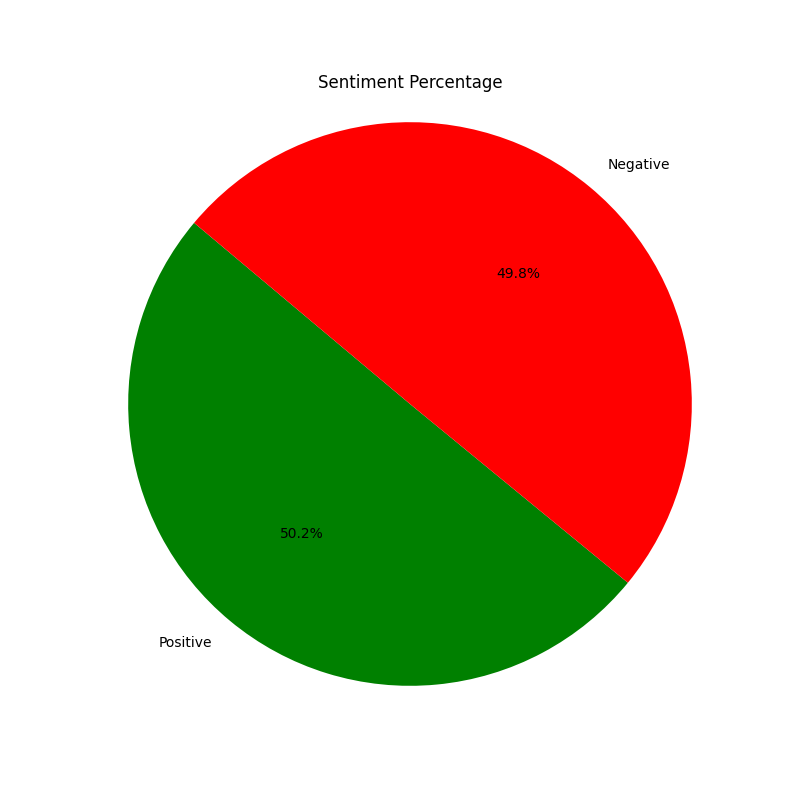
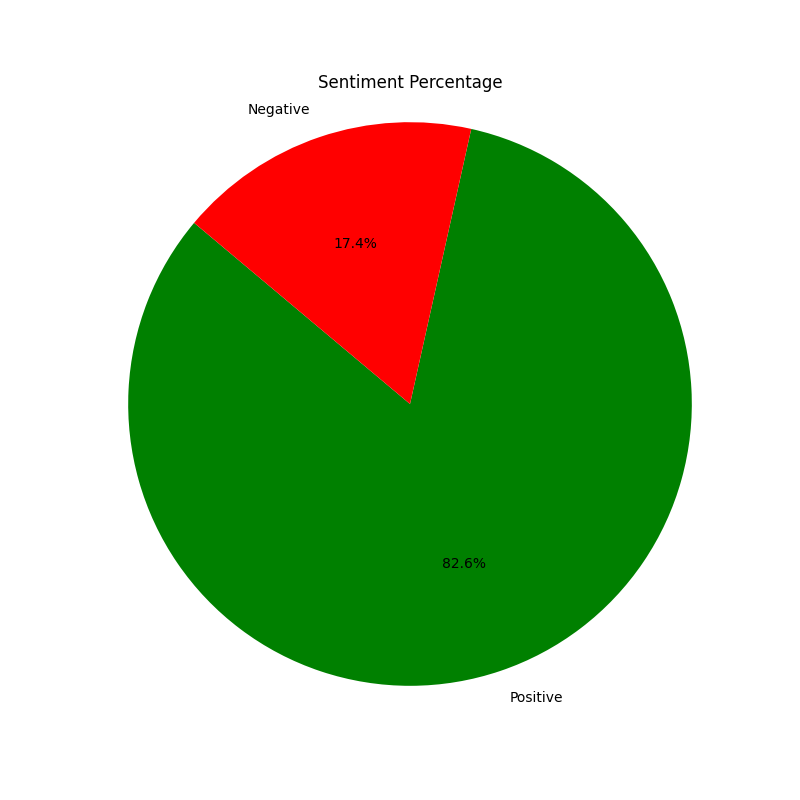
new update

diff --git a/templates/home.html b/templates/home.html
@@ -13,8 +13,7 @@
             <h1 class="unselectable">News Sentiment Analysis</h1>
             <form id="mainForm" method="post">
                 <div class="news-url">
-                    <label for="url">News URL:</label>
-                    <input type="text" id="url" name="url" required>
+                    <!-- Hapus input URL -->
                     <label for="keyword">Keyword:</label>
                     <input type="text" id="keyword" name="keyword" required>
                 </div>

diff --git a/app.py b/app.py
@@ -30,6 +30,14 @@ class ExtractedData(db.Model):
 
     def __repr__(self):
         return f'<ExtractedData {self.url}>'
+    
+# Definisikan model NewsSite di sini
+class NewsSite(db.Model):
+    id = db.Column(db.Integer, primary_key=True)
+    url = db.Column(db.String(2048), nullable=False, unique=True)
+
+    def __repr__(self):
+        return f'<NewsSite {self.url}>'
 
 # Buat tabel database jika belum ada dengan konteks aplikasi
 with app.app_context():
@@ -45,7 +53,7 @@ def classify_sentiment(sentence):
     analysis = TextBlob(sentence)
     polarity = analysis.sentiment.polarity
     # Tentukan ambang batas di mana di atasnya dianggap positif(1) dan di bawahnya negatif(-1)
-    threshold = 0.01
+    threshold = 0
     if polarity >= threshold:
         return 'positive'
     else:
@@ -115,7 +123,6 @@ visited_links = set()
 
 @app.route('/extract', methods=['POST'])
 def extract():
-    site_url = request.form.get('url')
     keywords_input = request.form.get('keyword').lower()
     keywords = keywords_input.split(',')  # Pisahkan kata kunci dengan koma
 
@@ -123,18 +130,17 @@ def extract():
         return jsonify({'error': 'Maximum 5 keywords allowed.'}), 400
     
     try:
-        future = executor.submit(do_extraction_task, site_url, keywords)
-        result = future.result()  # Menunggu hasil ekstraksi
-        if 'error' in result:
-            return jsonify(result), 500  # Jika ada error, kembalikan response dengan kode 500
-        else:
-            return jsonify({'message': result}), 200
-    except requests.exceptions.MissingSchema:
-        error = 'Invalid URL scheme provided.'
-        return jsonify({'error': error}), 400
-    except requests.exceptions.RequestException as e:
-        error = f'Failed to retrieve content from the URL: {e}'
-        return jsonify({'error': error}), 400
+        # Ambil semua URL situs berita dari database
+        news_sites = NewsSite.query.all()
+
+        for news_site in news_sites:
+            site_url = news_site.url
+            future = executor.submit(do_extraction_task, site_url, keywords)
+            result = future.result()  # Menunggu hasil ekstraksi
+            if 'error' in result:
+                return jsonify(result), 500  # Jika ada error, kembalikan response dengan kode 500
+
+        return jsonify({'message': 'Extraction process completed successfully.'}), 200
     except Exception as e:
         error = str(e)
         print(f"Error in extract function: {error}")
@@ -189,6 +195,7 @@ def do_extraction_task(site_url, keywords):
 
         # Jika tidak ada kondisi khusus yang terpenuhi, kembalikan pesan bahwa ekstraksi berhasil
         return 'Extraction process completed successfully.'
+
 
 @app.route('/data/<int:data_id>')
 def get_data(data_id):
@@ -299,6 +306,26 @@ def download_sentence_sentiments():
 @app.route('/download_sentiment_chart', methods=['GET'])
 def download_sentiment_chart():
     return send_file('sentiment_chart.png', as_attachment=True)
+
+@app.route('/save_news_site', methods=['POST'])
+def save_news_site():
+    data = request.json
+    site_url = data.get('url')
+
+    if not site_url:
+        return jsonify({'error': 'Missing URL parameter'}), 400
+
+    # Cek apakah situs berita sudah ada dalam database
+    existing_site = NewsSite.query.filter_by(url=site_url).first()
+    if existing_site:
+        return jsonify({'error': 'News site already exists in the database'}), 400
+
+    # Simpan situs berita ke dalam database
+    new_site = NewsSite(url=site_url)
+    db.session.add(new_site)
+    db.session.commit()
+
+    return jsonify({'message': 'News site saved successfully'}), 201
 
 if __name__ == '__main__':
     app.run(debug=True)
